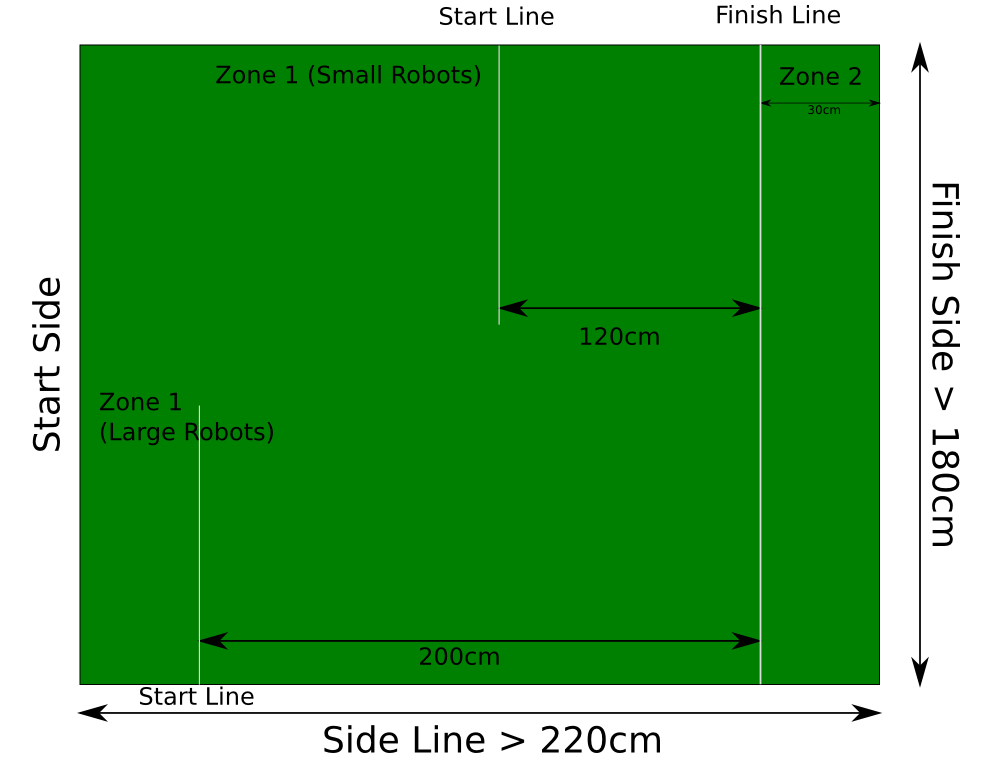
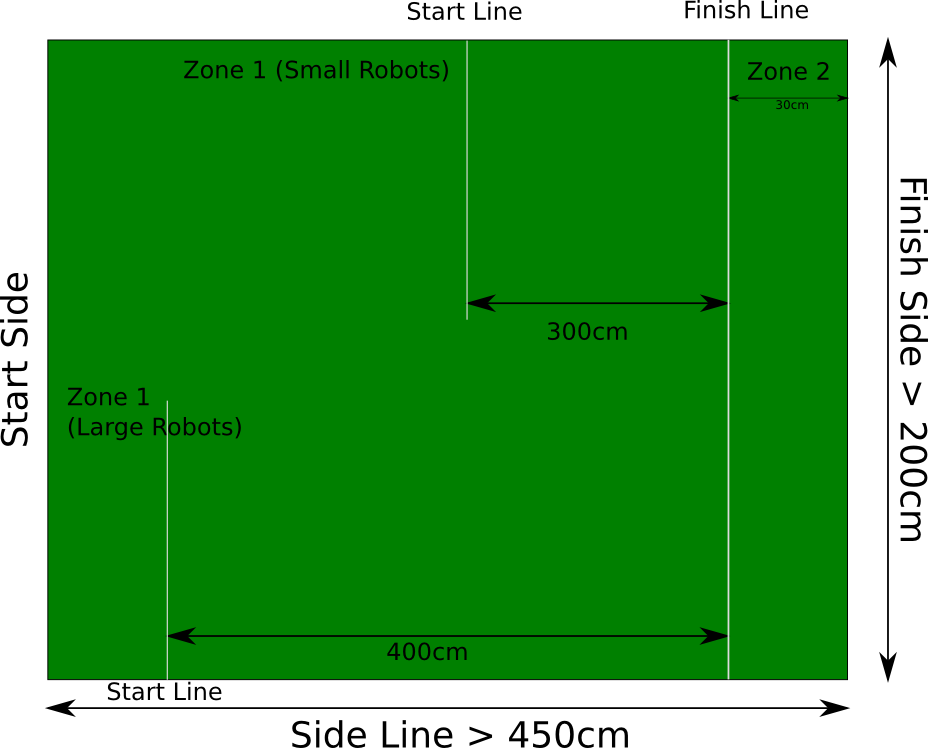
Fixed Fig for sprint and added climbing wall rules.

Changed region(s): [[0.0, 0.0, 1.0, 1.0]]

diff --git a/climbing-wall.tex b/climbing-wall.tex
@@ -1,0 +1,264 @@
+% Rules for the HuroCup Sprint Competition
+% Jacky Baltes <jacky@cs.umanitoba.ca> 
+
+\documentclass[12pt]{hurocup}
+
+\begin{document}
+
+\title{\HuroCup: Climbing Wall\\
+  Laws of the Game 2009}
+
+\author{Jacky Baltes\\
+Autonomous Agents Laboratory\\
+University of Manitoba\\
+Winnipeg, Manitoba\\
+Canada, R3T 2N2\\
+Email: jacky@cs.umanitoba.ca\\
+WWW: http://www.cs.umanitoba.ca/\~{ }jacky\\[5mm]
+Kuo-Yang Tu\\
+National Kaohsiung First University of Science and Technology\\
+Kaohsiung City, R. O. C.\\
+Email: tuky@ccms.nkfust.edu.tw\\
+}
+
+\maketitle
+
+\begin{center}
+ \includegraphics[width=0.4\linewidth]{Figures/climbing-wall}
+\end{center}
+
+\begin{abstract}
+The following rules and regulations govern the game of the Climbing
+Wall event in \HuroCup, a robotic game and robotics benchmark problem
+for humanoid robots.
+%
+\end{abstract}
+
+\section*{Latest Version of the Rules for \HuroCup}
+\label{sec:updates}
+
+The latest official version of the rules of the game for \HuroCup\ is
+always available from the FIRA \HuroCup\ website (http://www.fira.net).
+
+\newpage
+
+\section{Climbing Wall}
+\label{sec:climbing-wall}
+
+The climbing wall challenge aims at fostering research into complex
+motion plannng, coordination, and execution to increase the range of
+usable motions for humanoid robots.
+
+\section{Laws of the Game: Climbing Wall}
+\label{sec:laws-climbing-wall}
+
+The following laws describe the specifics of the climbing wall
+event. For general specifications relevant to all \HuroCup\ events
+(e.g., robot dimensions, playing field and lighting, responsibility of
+the referees) please refer to the general \HuroCup\ laws.
+
+\law[CW]{The Field of Play}
+\label{law:field-of-play}
+
+\begin{lawlist}[CW]
+
+\item The dimensions of the playing field are at least 200 by
+  200cm. 
+
+\item At one end of the playing field, there is a climbing wall, which
+  is at least 50cm wide and 100cm tall. 
+
+\item The angle between the wall and the floor is between 75 degrees
+  and 90 degrees.
+  
+\item The wall is built out of reinforced peg board or similar
+  material. 
+
+\item Several hand or foot holds are mounted on the wall. The size of
+  the holds is either rectangular or circular. The size of the holds
+  is at least 5cm by 5cm. The holds are strong enough to support a
+  weight of at least 10kg. See Fig.~\ref{fig:climbing-wall-holds} for
+  an example of rectangular and circular holds.
+
+\item The maximum distance between one hold and its nearest neighbor
+  is at most 30cm.
+
+\item Red markers are placed in the centre of the hand and foot holds
+  to help a robot to detect the position of the holds using a vision
+  system.
+
+\end{lawlist}
+
+\begin{figure}
+  \begin{center}
+    \includegraphics[width=0.45\linewidth]{Figures/climbing-wall2}
+  \end{center}
+  \caption{3D Rendering of Climbing Wall with Circular Holds}
+  \label{fig:climbing-wall-holds}
+\end{figure}
+
+\law[CW]{Number of Robots}
+
+\begin{lawlist}[CW]
+\item A single robot competes in a match.
+\end{lawlist}
+
+\law[CW]{The Players}
+
+Please refer to the general \HuroCup\ laws for a description of
+the players.
+
+\law[CW]{The Referee}
+
+Please refer to the general \HuroCup\ laws for a description of
+the referee.
+
+\law[CW]{The Assistant Referee}
+
+Please refer to the general \HuroCup\ laws for a description of
+the assitant referee.
+
+\law[CW]{Game Play}
+
+\begin{lawlist}[CW]
+  
+\item At the beginning of the competition, a single robot is
+  designated the climber and placed at the start position facing the
+  wall.
+
+\item The referee will signal the start of the competition by blowing
+  the whistle. After the referee blows the whistle, the robot must
+  walk toward the wall and attempt to climb as high as possible on
+  that wall.
+
+\item A robot is not allowed to leave the playing field as defined
+  in~\ref{law:field-of-play}.  If a robot leaves the playing field, it
+  must be moved back to the start point.
+
+\item The \emph{climbing height} of the robot is defined as the height
+  above ground of the lowest robot part while the robot is in a stable
+  configuration. A robot is in a stable configuration if it is
+  statically stable for more than 3 seconds.
+
+\item \label{cw-handler1} The human handlers are not allowed to
+  interfere in any way with other robots, the referee, or other human
+  handlers.
+
+\item \label{cw-handler2} A human handler may only enter the playing
+  field or touch his/her robot with the permission of the referee.
+
+\item Any robot that either leaves the playing field, falls off the
+  wall, or breaks down may be removed by a human helper and placed
+  again behind the start point. This is subject to
+  laws~\ref{cw-handler1} and~\ref{cw-handler2}.
+
+\item The end of the competition is signaled by the referee by blowing
+  the whistle a second time. The referee terminates the competition
+  if
+  \begin{itemize}
+    \item the maximum duration of the competition (5 minutes) has
+      elapsed,
+    \item the robot handler indicates to the referee that s/he wants
+      to retire the robot from the trial.
+  \end{itemize}
+
+\end{lawlist}
+
+\law[CW]{Fouls and Misconduct}
+
+\begin{lawlist}[CW]
+
+\item A robot is not allowed to use suction cups or other active
+  mechanisms to prevent it from falling off the wall.
+\end{lawlist}
+
+\begin{decisions}
+\item A robot handler is allowed to use a safety line to prevent
+  damage to the robot when falling off the wall.
+
+\item In 2009, the organizers will show the layout of the climbing
+  wall (i.e., the width and height as well as the position of all hand
+  and foot holds) to all teams prior to the competition.
+\end{decisions}
+
+\law[CW]{Method of Scoring}
+\label{rd:scoring}
+
+\begin{lawlist}[CW]
+
+\item Robots are awarded points based on the maximum climbing height.
+
+\item All robots that have a climbing height of $0$ cm are
+  automatically awarded no rank and $0$ points.
+
+\item Among the robots that have a climbing height of more than $0$ cm,
+  the robots are ranked based on the maximum climbing height.
+
+\item The point allocation for robots is as follows:
+  \begin{itemize}
+  \item The first ranked robot is awarded $10$ points.
+  \item The second ranked robot is awarded $8$ points.
+  \item The third ranked robot is awarded $6$ points.
+  \item The fourth, fifth, sixth, and seventh place robots are awarded
+    $4$,$3$,$2$, and $1$ point respectively.  A summary of the point
+    allocation for placings is shown in table~\ref{point-allocation}.
+
+    \begin{table}
+      \begin{center}
+        \begin{tabular}{l|l}
+          \hline
+          Place & Points scored \\
+          \hline
+          1 (Winner) & 10 \\
+          2          & 8 \\
+          3          & 6 \\
+          4          & 4 \\
+          5          & 3 \\
+          6          & 2 \\
+          7          & 1 \\
+          8, 9, ...  & 0 \\
+          \hline
+        \end{tabular}
+      \end{center}
+      \caption{Point allocation for placings in the \HuroCup\ events.}
+      \label{point-allocation}
+    \end{table}
+  \end{itemize}
+
+\item In case of a tie between $n$ robots with rank $k$, all robots
+ will be awarded rank $k$ and receive the average of the scores for
+ ranks $k$ to $k+n$.  For example, if the robots $A,B,C,D$ scored $10,
+ 8, 8, 4$ goals respectively, then robot $A$ will be declared the
+ winner (1st place) and receive 10 points, both robots $B$ and $C$
+ will be declared 2nd place finishers and receive $(8+6)/2=7$, and
+ robot $D$ will be declared the fourth place finisher and receive $4$
+ points.
+
+\end{lawlist}
+
+%% \section{Official World Records}
+%% \label{sec:worldrecords}
+
+%% This section contains the list of official world records for the
+%% HuroCup Climbing Wall competiton first introduced in the 2009 FIRA
+%% WorldCup competiton.
+
+%% \begin{center}
+%% \begin{tabular}{|lllll|}
+%% \hline
+%% Date & Event & Team & Affiliation & Time \\
+%% \hline
+%% \hline
+%% \end{tabular}
+%% \end{center}
+
+\end{document}
+
+
+% *** Local Variables: ***
+% *** mode: LaTeX ***
+% *** mode: outline-minor ***
+% *** mode: auto-fill ***
+% *** outline-regexp: "% !\\|\\\\\\(sub\\)*section" ***
+% *** TeX-command-default: "LaTeX PDF" ***
+% *** End: ***
